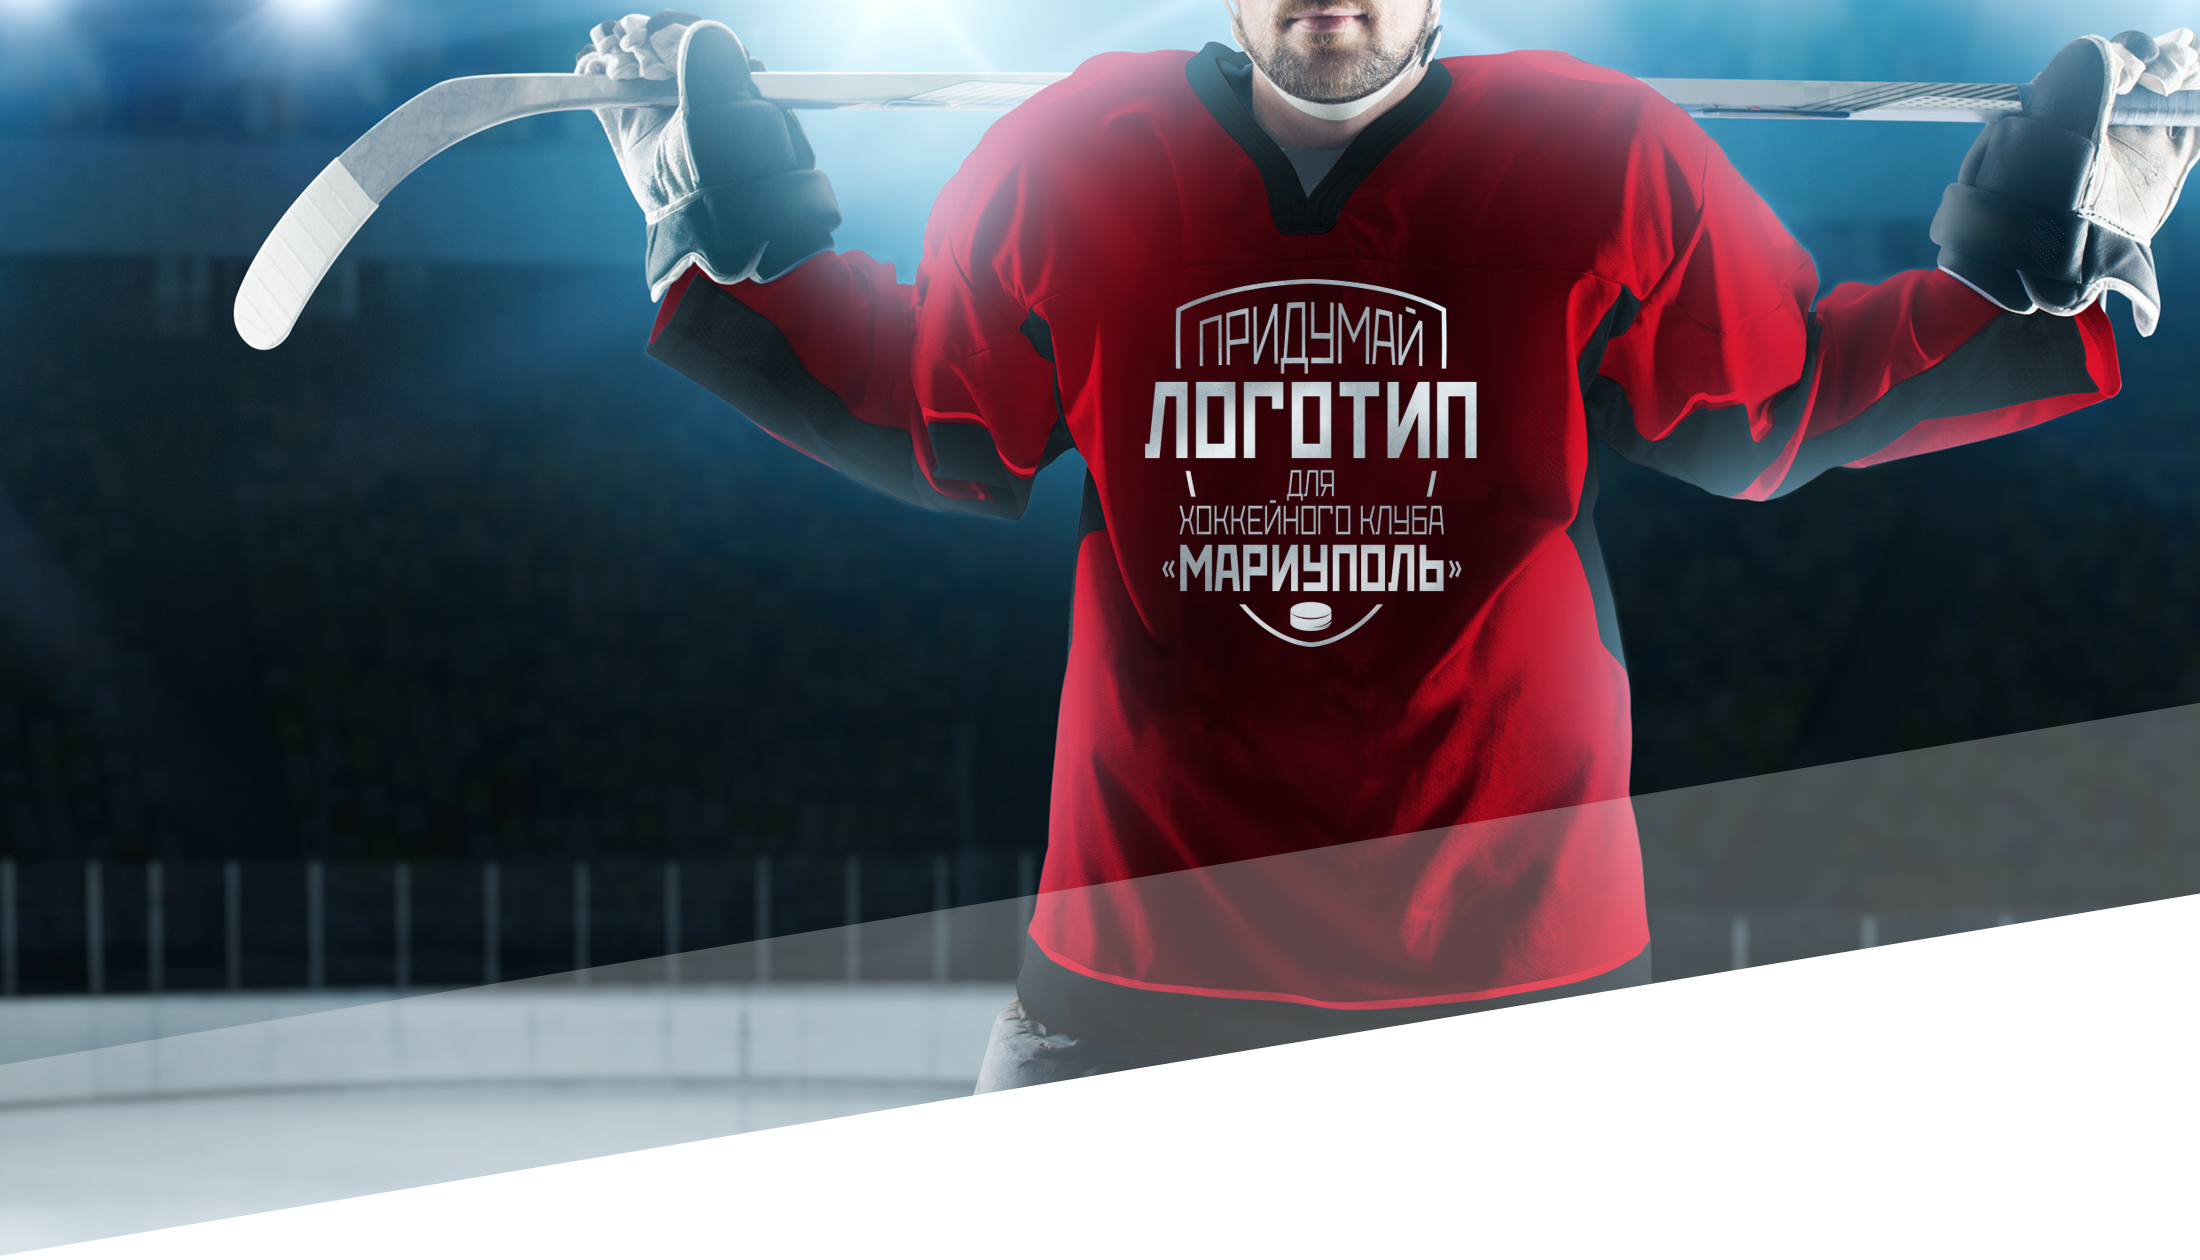
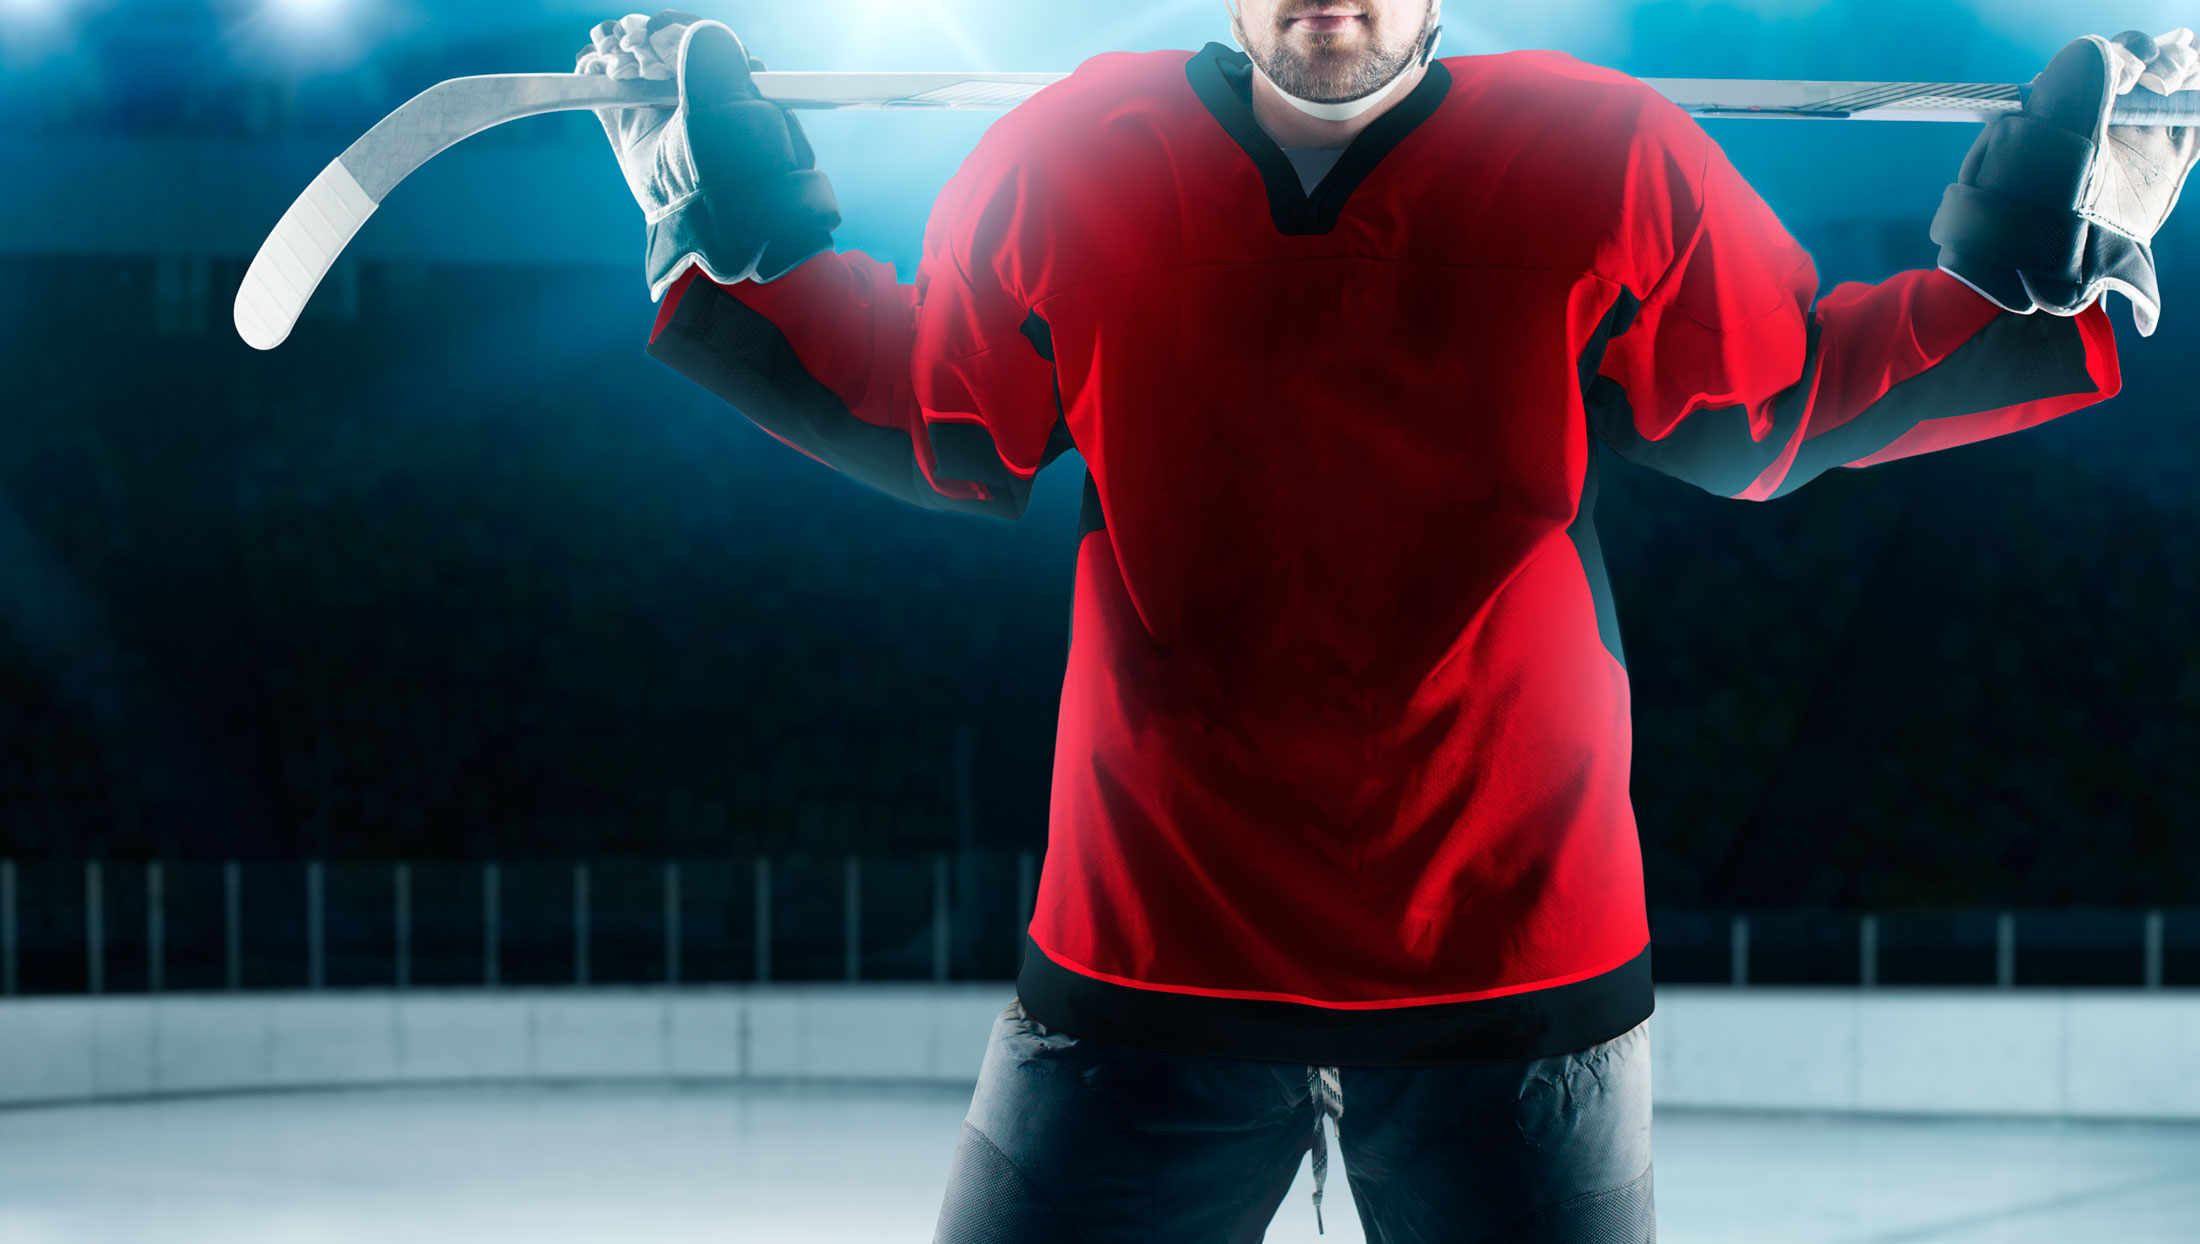
add

diff --git a/css/style.css b/css/style.css
@@ -99,8 +99,9 @@ input[type=text] {
 
 #header {
   background: url(../images/images/bg.jpg) #fff no-repeat center top;
-  padding-bottom: 240px;
+  padding-bottom: 420px;
   background-size: cover;
+  position: relative;
 }
 
 @media screen and (max-width: 560px) {
@@ -108,6 +109,21 @@ input[type=text] {
     background-position: 62% top;
     padding-bottom: 175px;
   }
+}
+
+#header:before {
+  content: '';
+  position: absolute;
+  padding-bottom: 0;
+  width: 100%;
+  height: 0;
+  border-style: solid;
+  border-width: 0 0 200px 200px;
+  border-color: transparent transparent #ffffff transparent;
+  bottom: 0;
+  -webkit-transform: rotate(36deg);
+  -ms-transform: rotate(36deg);
+  transform: rotate(36deg);
 }
 
 @media screen and (max-width: 780px) {
@@ -126,7 +142,7 @@ input[type=text] {
   -webkit-box-direction: normal;
   -ms-flex-direction: column;
   flex-direction: column;
-  padding-top: 115px;
+  padding-top: 275px;
   max-width: 350px;
 }
 
@@ -232,7 +248,7 @@ input[type=text] {
   text-align: right;
   font-size: 28px;
   color: #173746;
-  line-height: 30px;
+  line-height: 22px;
   text-transform: uppercase;
 }
 
@@ -259,6 +275,12 @@ input[type=text] {
   flex-wrap: wrap;
   margin-left: -15px;
   margin-right: -15px;
+}
+
+@media screen and (max-width: 780px) {
+  #content .examples {
+    padding: 0 15px;
+  }
 }
 
 #content .examples .one-example {
@@ -326,7 +348,8 @@ input[type=text] {
 #content .examples .one-example .block-top .number {
   position: absolute;
   top: -40px;
-  left: calc((100% - 73px) / 2);
+  left: calc((100% - 55px) / 2);
+  max-width: 55px;
 }
 
 #content .examples .one-example .name {
@@ -365,6 +388,7 @@ input[type=text] {
 #footer {
   padding-top: 220px;
   margin-top: 40px;
+  padding-bottom: 35px;
   background: url(../images/images/bg-footer.jpg) #fff no-repeat center bottom;
 }
 
@@ -383,7 +407,13 @@ input[type=text] {
   color: #9d9d9d;
 }
 
-#footer .row__aic {
+@media screen and (max-width: 780px) {
+  #footer p {
+    margin-bottom: 30px;
+  }
+}
+
+#footer .wrapper-small {
   margin: 0 auto;
   max-width: 620px;
 }

diff --git a/scss/_header.scss b/scss/_header.scss
@@ -1,12 +1,25 @@
 #header {
   background: url(../images/images/bg.jpg) #fff no-repeat center top;
-  padding-bottom: 240px;
+  padding-bottom: 420px;
   background-size: cover;
+  position: relative;
   @include xs-block() {
     //background: url(../images/images/bg-mob.jpg) #fff no-repeat center top;
     //background-size: 100% 100%;
     background-position: 62% top;
     padding-bottom: 175px;
+  }
+  &:before {
+    content: '';
+    position: absolute;
+    padding-bottom: 0;
+    width: 100%;
+    height: 0;
+    border-style: solid;
+    border-width: 0 0 200px 200px;
+    border-color: transparent transparent #ffffff transparent;
+    bottom: 0;
+    transform: rotate(36deg);
   }
   .logo img {
     @include sm-block() {
@@ -18,7 +31,7 @@
   .information {
     display: flex;
     flex-direction: column;
-    padding-top: 115px;
+    padding-top: 275px;
     max-width: 350px;
     @include sm-block() {
       align-items: center;

diff --git a/index.html b/index.html
@@ -148,11 +148,13 @@
 
 <footer id="footer">
     <div class="wrapper">
-        <p>Партнеры проекта</p>
-        <div class="row__aic">
-            <img src="images/icons/sponsor-1.png" alt="1">
-            <img src="images/icons/sponsor-2.png" alt="2">
-            <img src="images/icons/sponsor-3.png" alt="3">
+        <div class="wrapper-small">
+            <p>Партнеры проекта</p>
+            <div class="row__aic">
+                <img src="images/icons/sponsor-1.png" alt="1">
+                <img src="images/icons/sponsor-2.png" alt="2">
+                <img src="images/icons/sponsor-3.png" alt="3">
+            </div>
         </div>
         <div class="copyright">
             © БФ «Фонд Бориса Колесникова», 2010 - 2019. Все права защищены.<br>

diff --git a/scss/_content.scss b/scss/_content.scss
@@ -19,7 +19,7 @@
         text-align: right;
         font-size: 28px;
         color: $dark;
-        line-height: 30px;
+        line-height: 22px;
         text-transform: uppercase;
         @include sm-block() {
           font-size: 17px;
@@ -38,6 +38,7 @@
     margin-top: 50px;
     @include row-flex();
 
+    @include sm(padding, 0 15px);
     .one-example {
       @include col();
       @include size(4);
@@ -70,7 +71,8 @@
         .number {
           position: absolute;
           top: -40px;
-          left: calc((100% - 73px) / 2);
+          left: calc((100% - 55px) / 2);
+          max-width: 55px;
         }
       }
       .name {

diff --git a/scss/_footer.scss b/scss/_footer.scss
@@ -1,6 +1,7 @@
 #footer {
   padding-top: 220px;
   margin-top: 40px;
+  padding-bottom: 35px;
   background: url(../images/images/bg-footer.jpg) #fff no-repeat center bottom;
   @include xs-block() {
     margin-top: 0;
@@ -12,10 +13,13 @@
     text-align: right;
     margin-bottom: 60px;
     color: $grey;
+    @include sm(margin-bottom, 30px)
   }
-  .row__aic {
+  .wrapper-small {
     margin: 0 auto;
     max-width: 620px;
+  }
+  .row__aic {
     img {
       @include xs-block() {
         width: 25%;
